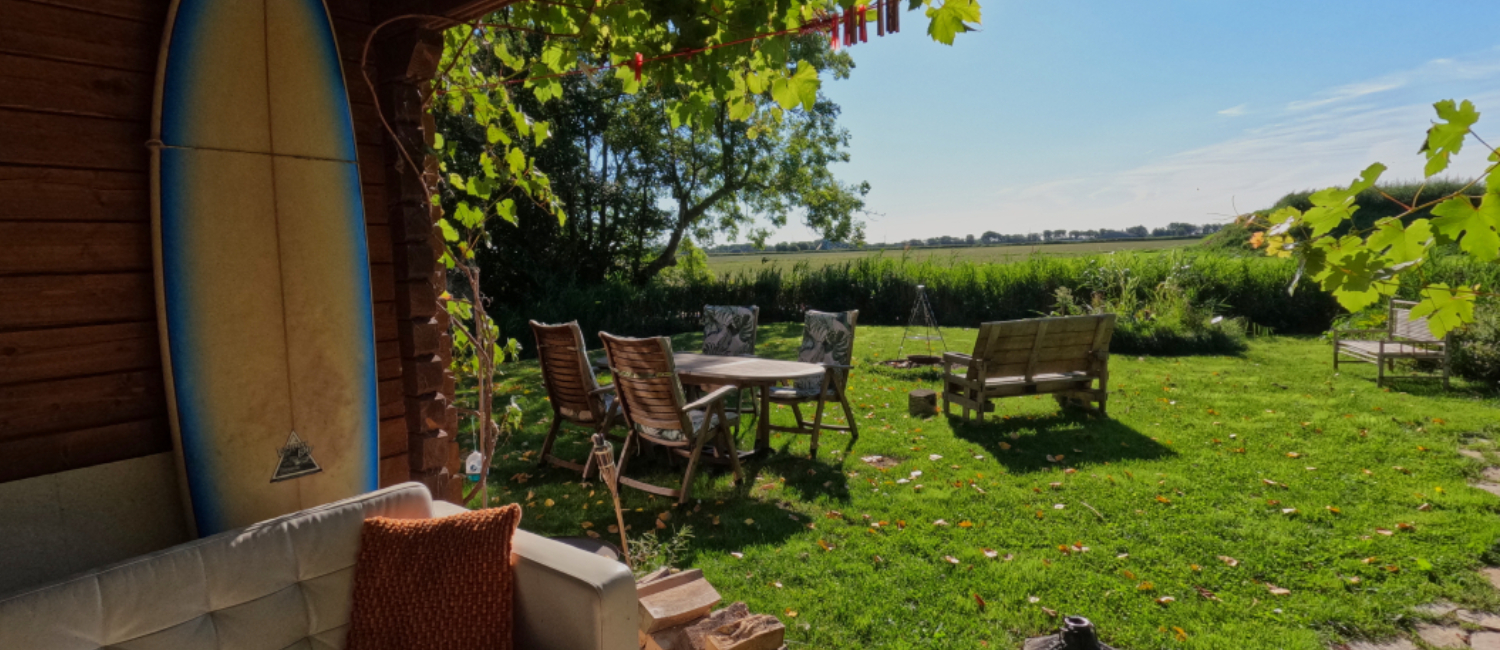
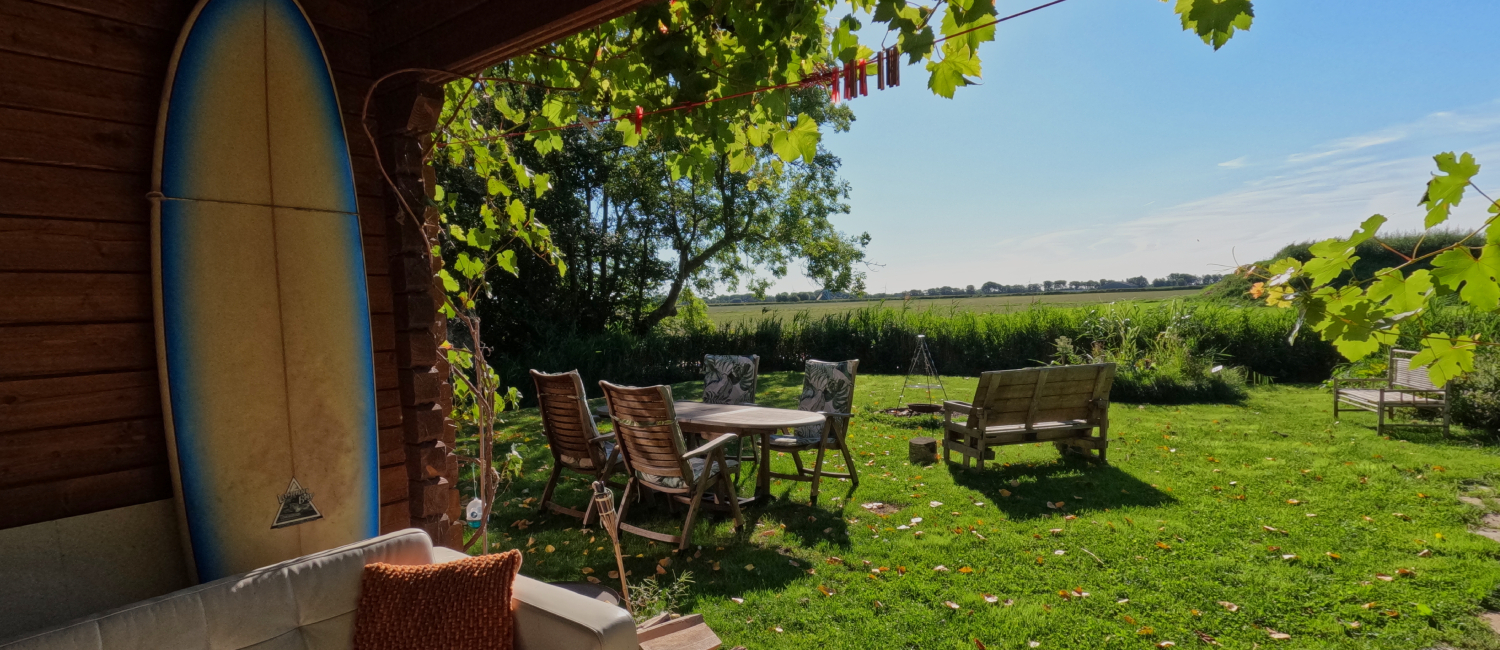
big images fixed

diff --git a/footer.html b/footer.html
@@ -16,7 +16,7 @@
                 <ul class="list-unstyled">
                     <li><a href="mailto:contact@decabinvangroenland.nl">contact@decabinvangroenland.nl</a></li>
                     <li><a href="https://www.instagram.com/decabinvangroenland/" target="_blank"><i class="bi bi-instagram"></i> Instagram</a></li>
-                    <li><a href="https://www.airbnb.nl/rooms/1178832820848097945?guests=1&adults=1&s=67&unique_share_id=d32b31ba-1282-4b4b-888e-5f3cc7f6371f"><i class="bi bi-house-heart"></i> Airbnb</a></li>
+                    <li><a href="https://www.airbnb.nl/rooms/1178832820848097945?guests=1&adults=1&s=67&unique_share_id=d32b31ba-1282-4b4b-888e-5f3cc7f6371f" target="_blank"><i class="bi bi-house-heart"></i> Airbnb</a></li>
                 </ul>
             </div>
 

diff --git a/styles.css b/styles.css
@@ -751,12 +751,6 @@ object-fit: cover;
     color: #D07F00;
 }
 
-.veld img {
-    width: 100dvw;
-    height: 350px;
-    object-fit: cover;
-}
-
 /* losse pagina: privacy */
 
 #privacy {
